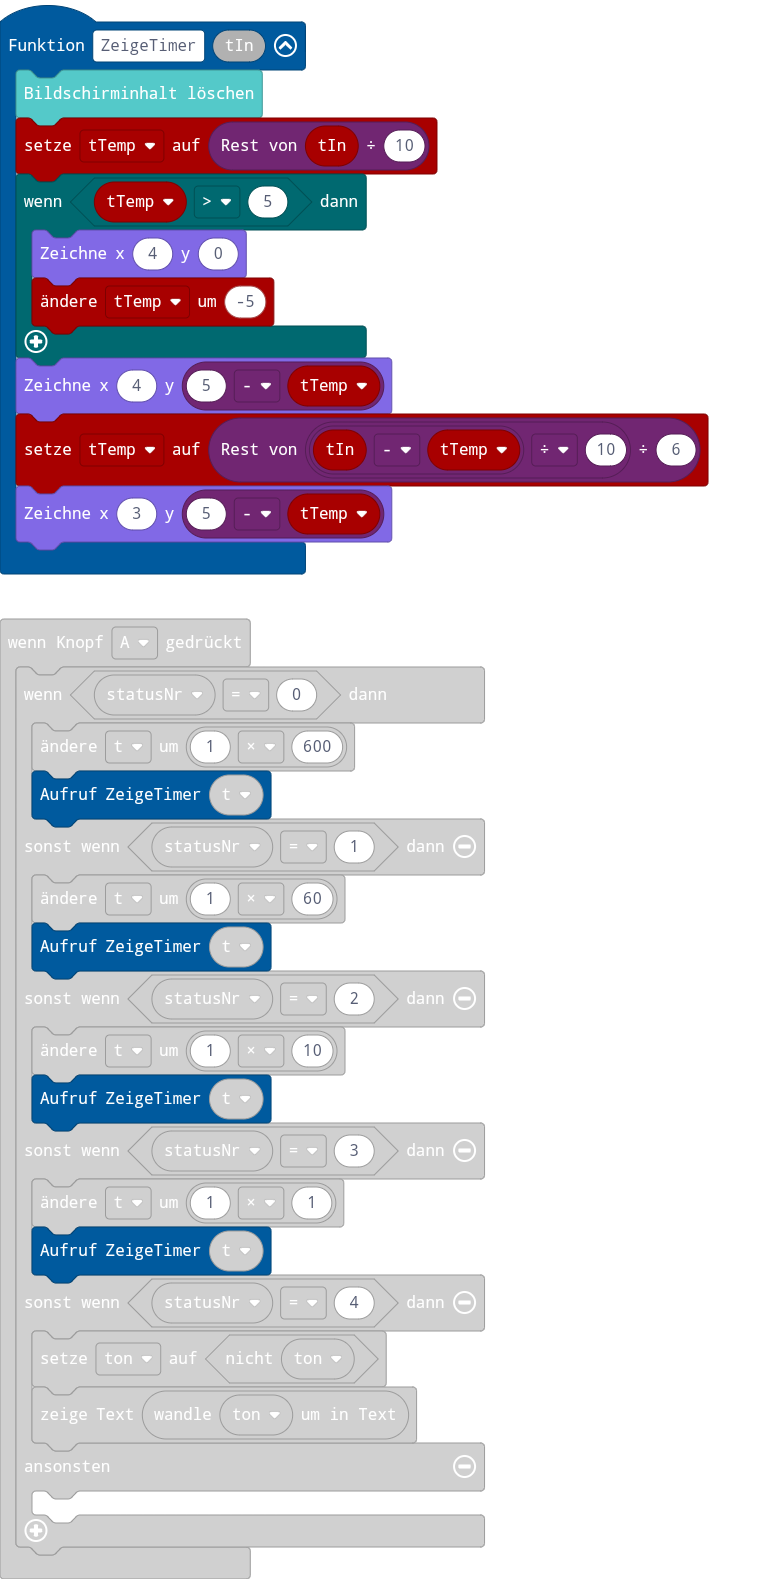
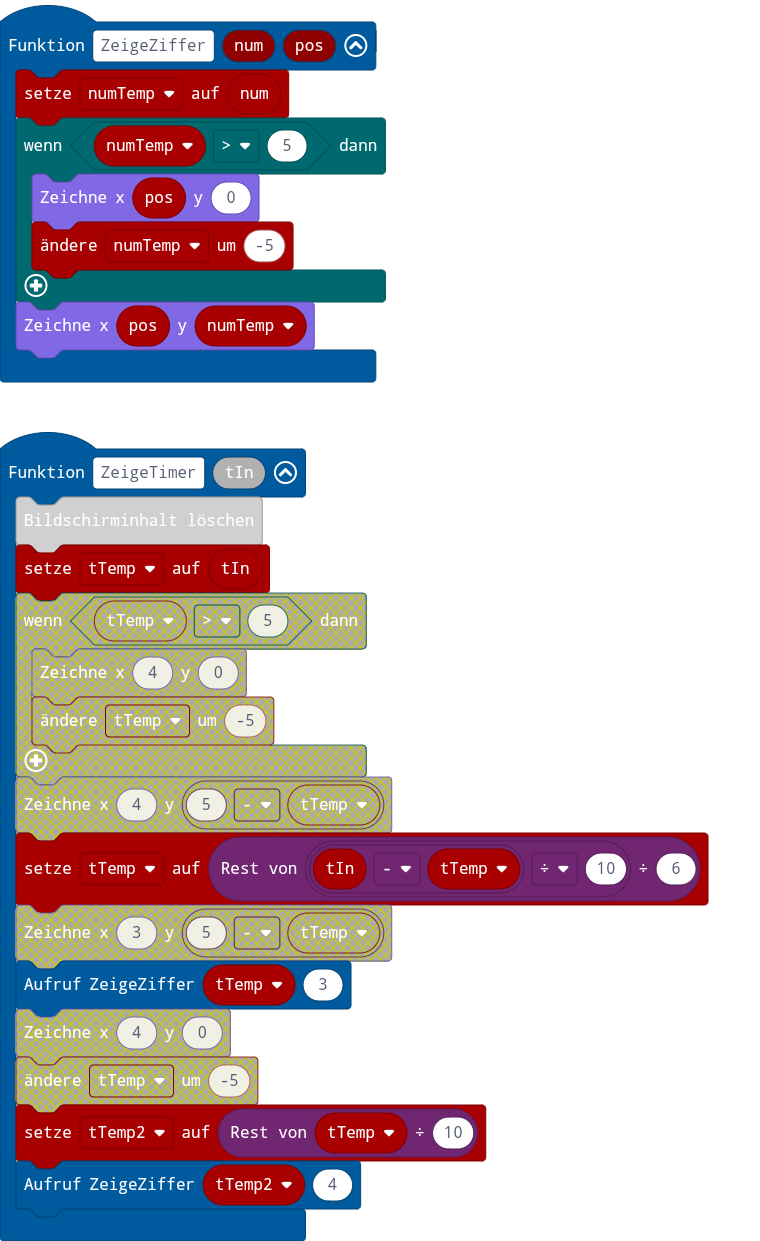
wip ....

diff --git a/main.ts b/main.ts
@@ -1,3 +1,11 @@
+function ZeigeZiffer (num: number, pos: number) {
+    numTemp = num
+    if (numTemp > 5) {
+        led.plot(pos, 0)
+        numTemp += -5
+    }
+    led.plot(pos, numTemp)
+}
 input.onButtonPressed(Button.A, function () {
     if (statusNr == 0) {
         t += 1 * 600
@@ -24,16 +32,15 @@ input.onButtonPressed(Button.B, function () {
 })
 function ZeigeTimer (tIn: number) {
     basic.clearScreen()
-    tTemp = tIn % 10
-    if (tTemp > 5) {
-        led.plot(4, 0)
-        tTemp += -5
-    }
-    led.plot(4, 5 - tTemp)
+    tTemp = tIn
+    tTemp2 = tTemp % 10
+    ZeigeZiffer(tTemp2, 4)
     tTemp = (tIn - tTemp) / 10 % 6
-    led.plot(3, 5 - tTemp)
+    ZeigeZiffer(tTemp, 3)
 }
+let tTemp2 = 0
 let tTemp = 0
+let numTemp = 0
 let ton = false
 let statusTxtList: string[] = []
 let statusNr = 0
